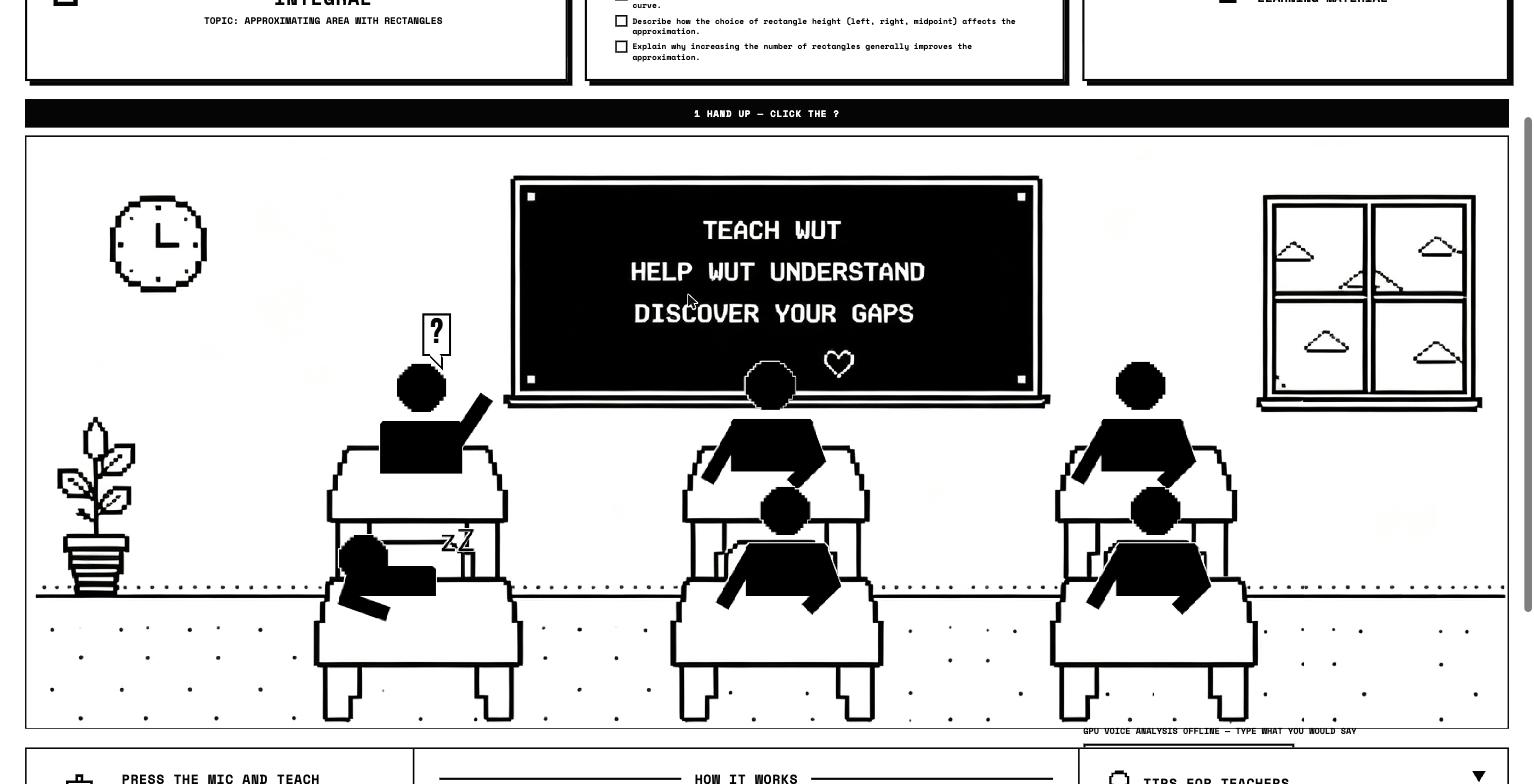
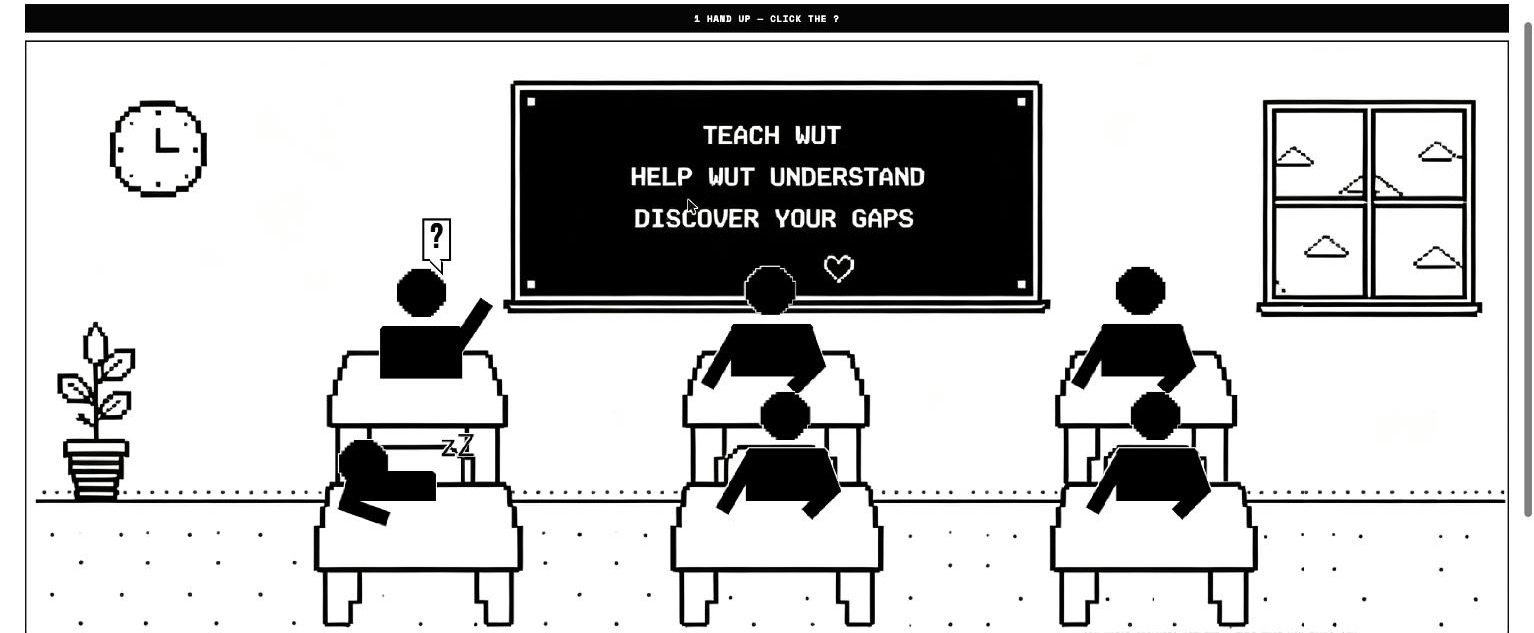
fix: one way out of a student conversation, not two
The zoom view rendered a persistent "← BACK TO CLASS" and, once the
exchange was over, a second "BACK TO CLASS" acknowledgement button. Both
called onBackToClass, and both are absolutely positioned, so they
overlapped in the bottom right. Hide the persistent one while isOver, so
each state offers exactly one exit.

Also trims the README to the product itself — the logo, what it does,
the walkthrough, how it is built, how to run it, and the licence — and
recrops the three classroom shots to drop the chrome around them,
including the doubled button this commit removes.

Changed region(s): [[0.0, 0.0, 1.0, 0.6303], [0.0306, 0.5103, 1.0, 1.0], [0.0919, 0.3602, 0.1226, 0.3902]]

diff --git a/frontend/src/features/study/components/BackendTeachingWorkspace.tsx b/frontend/src/features/study/components/BackendTeachingWorkspace.tsx
@@ -173,7 +173,9 @@ export function BackendTeachingWorkspace({
 
       {(error || recorder.error) && <p className="conversation-completion-error" role="alert">{error ?? recorder.error}</p>}
 
-      <button type="button" className="back-to-material" disabled={busy} onClick={onBackToClass}>← BACK TO CLASS</button>
+      {!isOver && (
+        <button type="button" className="back-to-material" disabled={busy} onClick={onBackToClass}>← BACK TO CLASS</button>
+      )}
 
       <div className="conversation-footer" aria-hidden="true"><i /><i /><i /></div>
 

diff --git a/README.md b/README.md
@@ -1,4 +1,6 @@
-# wut
+<p align="center">
+  <img src="docs/logo.png" alt="wut" width="380">
+</p>
 
 **You learn by teaching. We measure whether it worked.**
 
@@ -137,57 +139,6 @@ frontend/src/features/
   learning-data/  every backend call, in one file
   study/          the classroom, the mic, the seats
 ```
-
-Deeper docs in the repo: [`backend/LEARN_BY_TEACHING.md`](backend/LEARN_BY_TEACHING.md) (the
-teaching flow with real captured output), [`backend/API.md`](backend/API.md) (endpoint reference),
-[`ml-service/README.md`](ml-service/README.md) (models and deploy).
-
-## Contributing
-
-**Setup** — follow *Run it* above, then `pip install -r backend/requirements-dev.txt`.
-
-**Before you push:**
-
-```bash
-cd backend && source .venv/bin/activate && pytest -q     # 104 tests: no LLM, no GPU, no DB
-cd frontend && npm run build                             # tsc -b + vite build
-```
-
-**Where things go:**
-
-- Backend routes stay thin. Orchestration lives in `app/curriculum/` (plans, teaching, mastery),
-  `app/agents/` (the student and question writers) and `app/pipeline/` (measurement).
-- Every frontend backend call is declared in
-  `frontend/src/features/learning-data/backendLearningDataSource.ts` — add endpoints there, not
-  inline in components. `backend.types.ts` mirrors `backend/app/schemas.py`; change both together.
-- The backend and ml-service deploy separately and share no package, so
-  `backend/tests/test_ml_service_contract.py` asserts their schemas agree. It runs on CPU with no
-  torch — keep it that way.
-
-**Conventions:**
-
-- Tests are hermetic. Stub the LLM (see `_stub_llm` in `tests/test_workflow.py`) rather than calling
-  one; a test that needs network or a GPU doesn't belong in the suite.
-- Never put a key in a `VITE_*` variable — Vite inlines those into the browser bundle. Secrets live
-  in `backend/.env`, which is gitignored along with anything matching `.env.*`.
-- Tuning knobs go in `backend/app/config.py` with a default and a comment explaining the trade-off,
-  so they can be moved to `.env` without a code change.
-
-## Status
-
-Running end to end against a live ml-service on Hyper AI and DeepSeek models. 104 hermetic backend
-tests.
-
-Rough edges we know about:
-
-- The deployed GPU box predates the current `ml-service/` code, so word-level timings come back
-  degenerate (`/health` reports `pace_degraded`). Hesitation is currently caught by the
-  browser-measured prosody signal and a lexical backstop rather than by the acoustic model.
-  `ABSOLUTE_DISSONANCE` in `ml-service/config.py` is uncalibrated and wants tuning against two real
-  recordings — one confident, one hesitant.
-- `backend/API.md` predates the async analysis endpoints. `LEARN_BY_TEACHING.md` is current.
-- The pre-backend static mock UI is still wired up behind `/study?concept=...`.
-- No auth, no migrations. Schema changes mean dropping the volume.
 
 ## License
 
